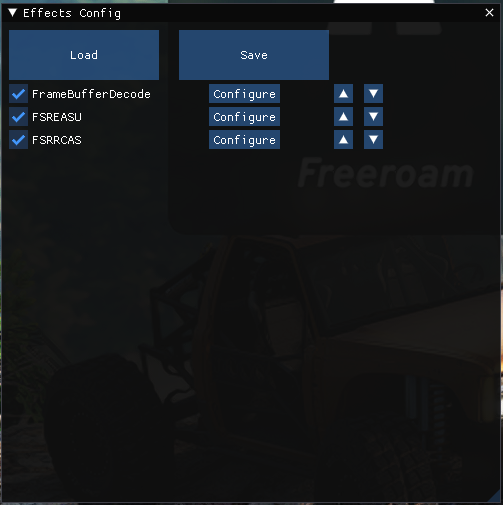
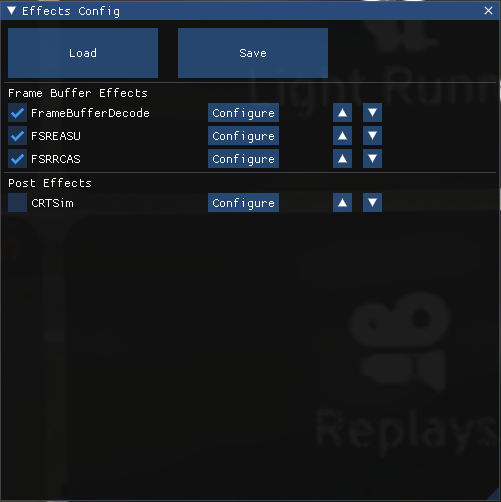
Release 2.1 docs. Add CRTSim details Update tracking doc. Add Assetto Corsa setup guide.

diff --git a/README.md b/README.md
@@ -1,4 +1,4 @@
-# WibbleWobble v2.0
+# WibbleWobble v2.1
 
 ## WibbleWobble turns your display into a window to virtual worlds.
 
@@ -88,7 +88,7 @@
 ## Installation for Each Game
 
 1. **Install Reshade Addon:**  
-   Run `WWReshadeAddon/Reshade/ReShade_Setup_6.3.3_Addon.exe` . WibbleWobble v1.0 only supports DX11 and DX12.  
+   Run `WWReshadeAddon/Reshade/ReShade_Setup_6.3.3_Addon.exe` . WibbleWobble only supports DX11 and DX12.  
    *Note: Do not use this version of Reshade with games that have anti-cheat. Use at your own risk.*
    - Install Reshade into the game you want to use. (Depending on the game you may need to perform extra steps to make Reshade work).
 
@@ -144,7 +144,7 @@
 ## Configuration Workflows
 
 - **Toggle UI:**  
-  After launching WibbleWobble, toggle its UI with **Shift + End**.
+  After launching WibbleWobble, toggle its UI with **Shift + END**.
   
 - **Tool Box Window:**  
   The main WibbleWobble UI includes a Tool Box with configuration options.
@@ -224,6 +224,9 @@
   - Disabled: Not used.
   - Head: Device sets the head pose.
 - **Lerp Multiplier:** Adjust head tracking extrapolation (1 = full, 0 = none).
+- **Axis Multipliers (Yaw, Pitch, Roll, X, Y, Z):** Apply multipliers, including -1 to invert.
+
+
 
 ### Stereo Config
 
@@ -231,6 +234,11 @@
 - **Frame Rate:** The expected frame rate of the client. 120 fps here means the client expects to produce a frame for each eye at 120fps and will take a frame from the game at 60fps. 
 
 ### Effects Config
+
+Effects are broken into two types.
+
+- **Frame Buffer Effects:** These effects work on the framebuffer that comes from the game, these are applied first, before reprojection.
+- **Post Effects:** These effects work on the output after reprojection and are performed in screen space.
 
 - Place a tick in the tickbox to enable an effect.
 - Press the Configure button on an effect to configure it's properties.
@@ -246,7 +254,24 @@ Enable both of these effects and ensure that FSREASU is **before** FSRRCAS in th
 - **FSRRCAS** [RCAS] Robust Contrast Adaptive Sharpening .... A non-scaling variation on CAS. Press the Configure button to change settings.
 
 
+### Effects Config (CRT Sim)  [Click me for more information at Blur Busters](https://blurbusters.com/crt-simulation-in-a-gpu-shader-looks-better-than-bfi/)
 
+ **WARNING** : If you want to use this effect, be sure to set Black Frame Insertion Interval in Client Config to 0. Don't enable BFI and this effect at the same time.
+
+ **CRTSim** [CRTsim] Blur Busters CRT Beam Simulator BFI with Seamless Gamma Correction.
+ - Best results occur on display configured to standard SDR gamma curve and ABL/APL disabled to go 100% bandfree
+ - Please set your display gamma to 2.2 or 2.4, turn off ABL/APL in display settings, and set your OLED to SDR mode.  
+ - Will NOT work well with some FALD and MiniLED due to backlight lagbehind effects.
+ - Need future API access to OLED ABL/ABL algorithm to compensate for OLED ABL/APL windowing interference with algorithm.
+
+ **Config Properties**
+- ***BFI Interval:*** How often to insert black frames. 0 = disabled, 1 = every second frame, 2 = every fourth frame, etc..
+- ***Gamma:*** Your display's gamma value. Necessary to prevent horizontal-bands artifacts.
+- ***Gain vs Blur:*** Brightness-vs-motionblur tradeoff for bright pixel.
+  - 1.0 is unchanged brightness (same as non-CRT, but no blur reduction for brightest pixels, only for dimmer pixels).
+  - 0.5 is half brightness spread over fewer frames (creates lower MPRT persistence for darker pixels).
+  - ~0.7 recommended for 240Hz+, ~0.5 recommended for 120Hz due to limited inHz:outHz ratio.
+- ***Scan Direction:*** CRT Scan direction; can be useful to counteract an OS rotation of your display.
 
 ---
 
@@ -346,6 +371,36 @@ Enable both of these effects and ensure that FSREASU is **before** FSRRCAS in th
  14. Under Client Config, Press the save button.
  15. Close the WibbleWobble UI (SHIFT + End).
  16. **OPTIONALLY** If the eye order is uncomfortable for you, you can reverse it by pressing SHIFT + Comma.
+
+---
+## Game Guides
+
+ **These game guides assume you have already done all of the initial setup steps, have installed Reshade/WibbleWobble to the game and running OpenTrack to provide head tracking.**
+
+### Asseto Corsa
+
+This guide is for those using content manager; I recommend using content manager as your AC launcher as it's just more modern.
+
+ - Launch AC content manager.
+ - Navigate to SETTINGS / ASSETTO CORSA / VIEW & UI.
+ - Set the field of view setting to whatever vertical field of view you want to use; 45 degrees in this example.
+ ![AC1](Documentation/Readme_AC1.png?raw=true)
+ 
+ - Start a race session.
+ - Press the F1 key to change camera to the second cockpit view, the first view doesn't support head tracking.
+ - Press SHIFT + END to load WibbleWobble.
+ - Put your head in the centre position and Press SHIFT + . to center tracking.
+ - Press SHIFT + END to open the WibbleWobble UI.
+ - Press the Tracking Config button in the toolbox.
+ - Press the Game Config button in the toolbox.
+ - Change the settings in Tracking Config and Game Config to match the image below, taking care to ensure your vertical field of view matches what you set in content manager.
+ - Window size in Game Config can be whatever you want for the game resolution.
+ ![AC2](Documentation/Readme_AC2.png?raw=true)
+
+ - Put your head in the centre position and Press SHIFT + . to center tracking again to suit the new settings.
+ - Press the save button in the Tracking Config UI.
+ - Press the save button in the Game Config UI.
+ - Press SHIFT + END to close the WibbleWobble UI.
 
 ---
 
